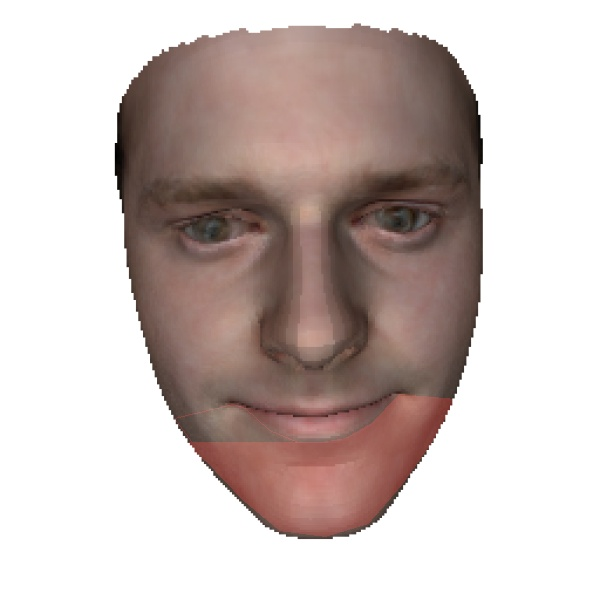
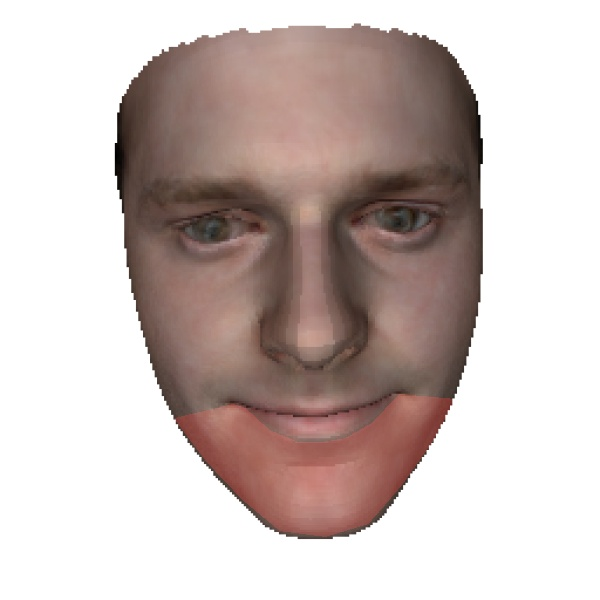
testes

Changed region(s): [[0.3, 0.66, 0.48, 0.75]]

diff --git a/src/runDetailsFace.py b/src/runDetailsFace.py
@@ -16,11 +16,7 @@ def drawRegiona(imagem, valores, label):
     
     listas = ['eye', 'month', 'nose', 'queixo']
 
-    CHEEK_IDXS = OrderedDict(
-        [
-            valores
-        ]
-    )
+    CHEEK_IDXS = OrderedDict([valores])
 
     detector    = dlib.get_frontal_face_detector()
     predictor   = dlib.shape_predictor("./model/shape_predictor_68_face_landmarks.dat")
@@ -28,9 +24,7 @@ def drawRegiona(imagem, valores, label):
     img = cv2.imread('./img/' + imagem)
     img = imutils.resize(img, width=600)
 
-    overlay = img.copy()
     gray = cv2.cvtColor(img, cv2.COLOR_BGR2GRAY)
-
     mask = np.zeros_like(img, np.uint8)
     # mask = np.zeros((img.shape[0], img.shape[1]))
 
@@ -45,63 +39,24 @@ def drawRegiona(imagem, valores, label):
             for i,j in enumerate(CHEEK_IDXS[name]): 
                 pts[i] = [shape.part(j).x, shape.part(j).y]
 
-            # pts = pts.reshape((-1,1,2))
-            
-            # cv2.polylines(overlay,[pts],True,(246,243,243),thickness = 2)            
-            # cv2.fillPoly(overlay, pts=[pts], color=(180,0,0))
-            
+            # pts = pts.reshape((-1,1,2))            
             
             # Create output image (untranslated)
             outClean = img.copy()
             
             # Create mask that defines the polygon of points
             # Red
-            cv2.fillConvexPoly(mask, pts, (0, 0, 255))
+            cv2.fillPoly(mask, [pts], (0, 0, 255))
             # Blue
-            # cv2.fillConvexPoly(mask, pts, (255, 51, 51))
+            # cv2.fillPoly(mask, [pts], (255, 51, 51))
             
             alpha = 0.7
             mascara = mask.astype(bool)
             outClean[mascara] = cv2.addWeighted(img, alpha, mask, 1 - alpha, 0)[mascara]
             
-            mask = mask > 0 # To convert to Boolean
-            
-            out = np.zeros_like(img)
-            out[mask] = img[mask]
-            
-            # Find centroid of polygon
-            (meanx, meany) = pts.mean(axis=0)
-
-            # Find centre of image
-            (cenx, ceny) = (img.shape[1]/2, img.shape[0]/2)
-            
-            # Make integer coordinates for each of the above
-            (meanx, meany, cenx, ceny) = np.floor([meanx, meany, cenx, ceny]).astype(np.int32)
-
-            # Calculate final offset to translate source pixels to centre of image
-            (offsetx, offsety) = (-meanx + cenx, -meany + ceny)
-
-            # Define remapping coordinates
-            (mx, my) = np.meshgrid(np.arange(img.shape[1]), np.arange(img.shape[0]))
-            ox = (mx - offsetx).astype(np.float32)
-            oy = (my - offsety).astype(np.float32)
-
-            # Translate the image to centre
-            out_translate = cv2.remap(out, ox, oy, cv2.INTER_LINEAR)
-
-            # Determine top left and bottom right of translated image
-            # topleft = pts.min(axis=0) + [offsetx, offsety]
-            # bottomright = pts.max(axis=0) + [offsetx, offsety]
-                        
-            # cv2.imshow('Output Image', out_translate)
-            # cv2.imshow('Output', outClean)
-            
             cv2.imwrite('./img/' + nome[0] + '_' + str(listas[label]) + '_detail.jpg', outClean)
             # cv2.waitKey(0)
             # cv2.destroyAllWindows()
-                    
-        # cv2.imshow("Image", overlay)
-
 
 if __name__ == '__main__':
 
@@ -118,7 +73,7 @@ if __name__ == '__main__':
 
         for l in lista:
 
-            if 'detail' not in l:
+            if 'detail' not in l and 'mesh' in l:
 
                 drawRegiona(l, j, i)
              
